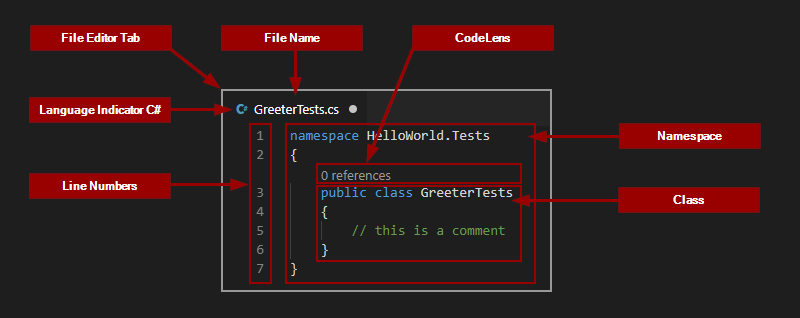
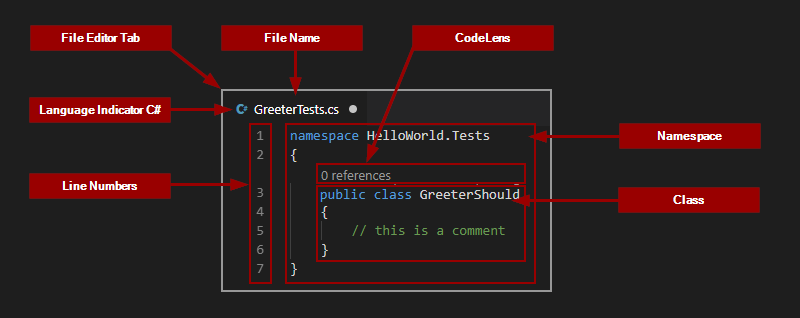
it is GreeterShould

Changed region(s): [[0.375, 0.5094, 0.6562, 0.8208]]

diff --git a/Tutorials/HelloWorld.md b/Tutorials/HelloWorld.md
@@ -365,18 +365,21 @@ Programming languages are a bit like human langauges, they have words and gramma
 
 Object Oriented Programming or OOP is an attempt to model real world problems with _objects_ that model real world with structures containing data that describes their properties and methods that can modify that state, or more generally do some stuff. For example if you want to model a car, the _car_ would be the object, _speed_ would be a property and _accelerate_ a method that increases the _speed_.
 
-Back to our first unit test. The first step is to create a file. Typically the filename is `<ObjectName>Tests.cs`. That means we need to decide what is our object. We want to write an application that says Hello World so in object oriented world we can imagine there is a person that greets us which we will model as a _greeter_ object. By convention in C# class names use _PascalCase_ and by default each _class_ (definition of an object) is defined in its own file with the same name. Also by convention a class testing another class has the same name but with _Tests_ appended to it. 
+In many programming languages, C# included, objects are defined with the `class` keyword. This is to make a distinction between a _class of object_ (or a _type_) and an _instance_. The _class_ is the blueprint that describes what data the object can hold, and what methods it has but that's all it is, a blueprint. Then in the process called _instantiation_ an _instance_ of that _class_ is created. It is possible to have multiple instances of the same class, and by default they don't share any state, they have the same starting point, the same blueprint, but they have independent state. 
+
+Back to our first unit test. The first step is to create a file. Typically the filename is `<ObjectName>Tests.cs` or `<ObjectName>Should.cs`. That means we need to decide what is our object. We want to write an application that says Hello World so in object oriented world we can imagine there is a person that greets us which we will model as a _greeter_ object. By convention in C# class names use _PascalCase_ and by default each _class_ (definition of an object) is defined in its own file with the same name. Also by convention a class testing another class has the same name but with _Tests_ appended to it. 
 
 So what we know so far? 
-We will need a `Greeter` object defined in `Greeter.cs` file in the `HelloWorld` project and to test it a `GreeterTests` object defined in `GreeterTests.cs` file in the `HelloWorld.Tests` project.
+We will need a `Greeter` object defined in `Greeter.cs` file in the `HelloWorld` project and to test it a `GreeterShould` object defined in `GreeterShould.cs` file in the `HelloWorld.Tests` project.
 
-Create `GreaterTests.cs` file
+Create `GreaterShould.cs` file
 
+<!-- TODO: Screenshot with GreeterShould -->
 ![Create First Test](./Images/HelloWorld.UnitTests1.png)
 
-Open the `GreeterTests.cs` file and define the namespace for our test class. Namespace could be called just about anything but by convention it should match the folder structure we put in place so in hour case `HelloWorld.Tests`.
+Open the `GreeterShould.cs` file and define the namespace for our test class. Namespace could be called just about anything but by convention it should match the folder structure we put in place so in hour case `HelloWorld.Tests`.
 
-__`GreeterTests.cs` file:__
+__`GreeterShould.cs` file:__
 ```cs
 namespace HelloWorld.Tests 
 {
@@ -388,27 +391,44 @@ In the above code the `namespace` is the keyword that starts the definition of a
 
 Now add the GreeterTests class definition in the namespace.
 
-__`GreeterTests.cs` file:__
+__`GreeterShould.cs` file:__
 ```cs 
 namespace HelloWorld.Tests
 {
-    public class GreeterTests 
+    public class GreeterShould 
     {
 
     }
 }
 ```
 
-`public` is another keyword and an [access modifier](https://en.wikipedia.org/wiki/Access_modifiers). `class` is a keyword defining a class and `GreeterTests` is the name of the class. The curley brackets `{` and `}` once again define the beginning and the end of our definition. 
+`public` is another keyword and an [access modifier](https://en.wikipedia.org/wiki/Access_modifiers). `class` is a keyword defining a class and `GreeterShould` is the name of the class. The curley brackets `{` and `}` once again define the beginning and the end of our definition. 
 
 **Things to Remember**
 * Namespaces group classes and help organise code. They also help avoiding naming conflicts. Each class name has to be unique, but only within a namespace. 
 * Curly Brackets define scope, beginning and end of things in code.
 
-If you look at the `GreeterTests.cs` file now in VS Code it will should look like so:
+If you look at the `GreeterShould.cs` file now in VS Code it will should look like so:
 
 ![Code Editory](./Images/HelloWorld.CodeEditor.png)
 
 There are few things we haven't covered yet. There are line numbers which are displayed but are not part of the file (if you open the file in a notepad they will not be there). The line numbers help to navigate the code. Also, when there is a problem with the code the compilier will notify you quoting file name and line number. CodeLens if a feature of VS Code that helps you understand the code by giving you helpful, additional information like in this case that there are no references to the class, which means it can be changed without causing any problems. Not that it is not a new line, it's just a bit of information between lines 2 and 3. 
 
 There is also a comment just to show that not everything in the code file is necessarily code. Anything that starts with `//` (in c#) is a comment and is ignored by the compiler. Things between `/*` and `*/` are also comments and are equally ignored. 
+
+So there is a class in a namespacess, but we still haven't got the first test. Tests are implemented as methods in the test class (as methods are the things that do stuff). Methods are defined similarily as namespaces and classes, with some keywords, names and a code block starting with `{` and ending with `}`. A full method declaration (or signature) consists of four parts: 
+* Access modifier (this can be ommited and then `internal` is implied)
+* Return type (a class or a [value type](https://docs.microsoft.com/en-us/dotnet/csharp/language-reference/keywords/value-types)) 
+* Method name (single word that is not a reserver keyword)
+* Parameters in paremthasis (or just paremthasis)
+
+Test methods should be public, the same as the test class. We don't expect the method to return any results (it doesn't mean we don't expect it to do things) so we will use word `void` to say we don't want any output. Method names normally should be a command in _PascalCase_. Things like `Validate()`, or `Save()` are common. But tests have their own rules to follow. It might sound unimportant, but good naming helps to write good tests. The test should read well to help understand what they do. We have the class name already sounding like a beginning of the sentance: _Greeter_should_. Let's continue it with a test method called _say_hello_. The methods doesn't need any parameters so we will use empty `()`.
+
+```cs
+public class GreeterShould 
+{
+    public void say_hello() 
+    {
+    }
+}
+```
